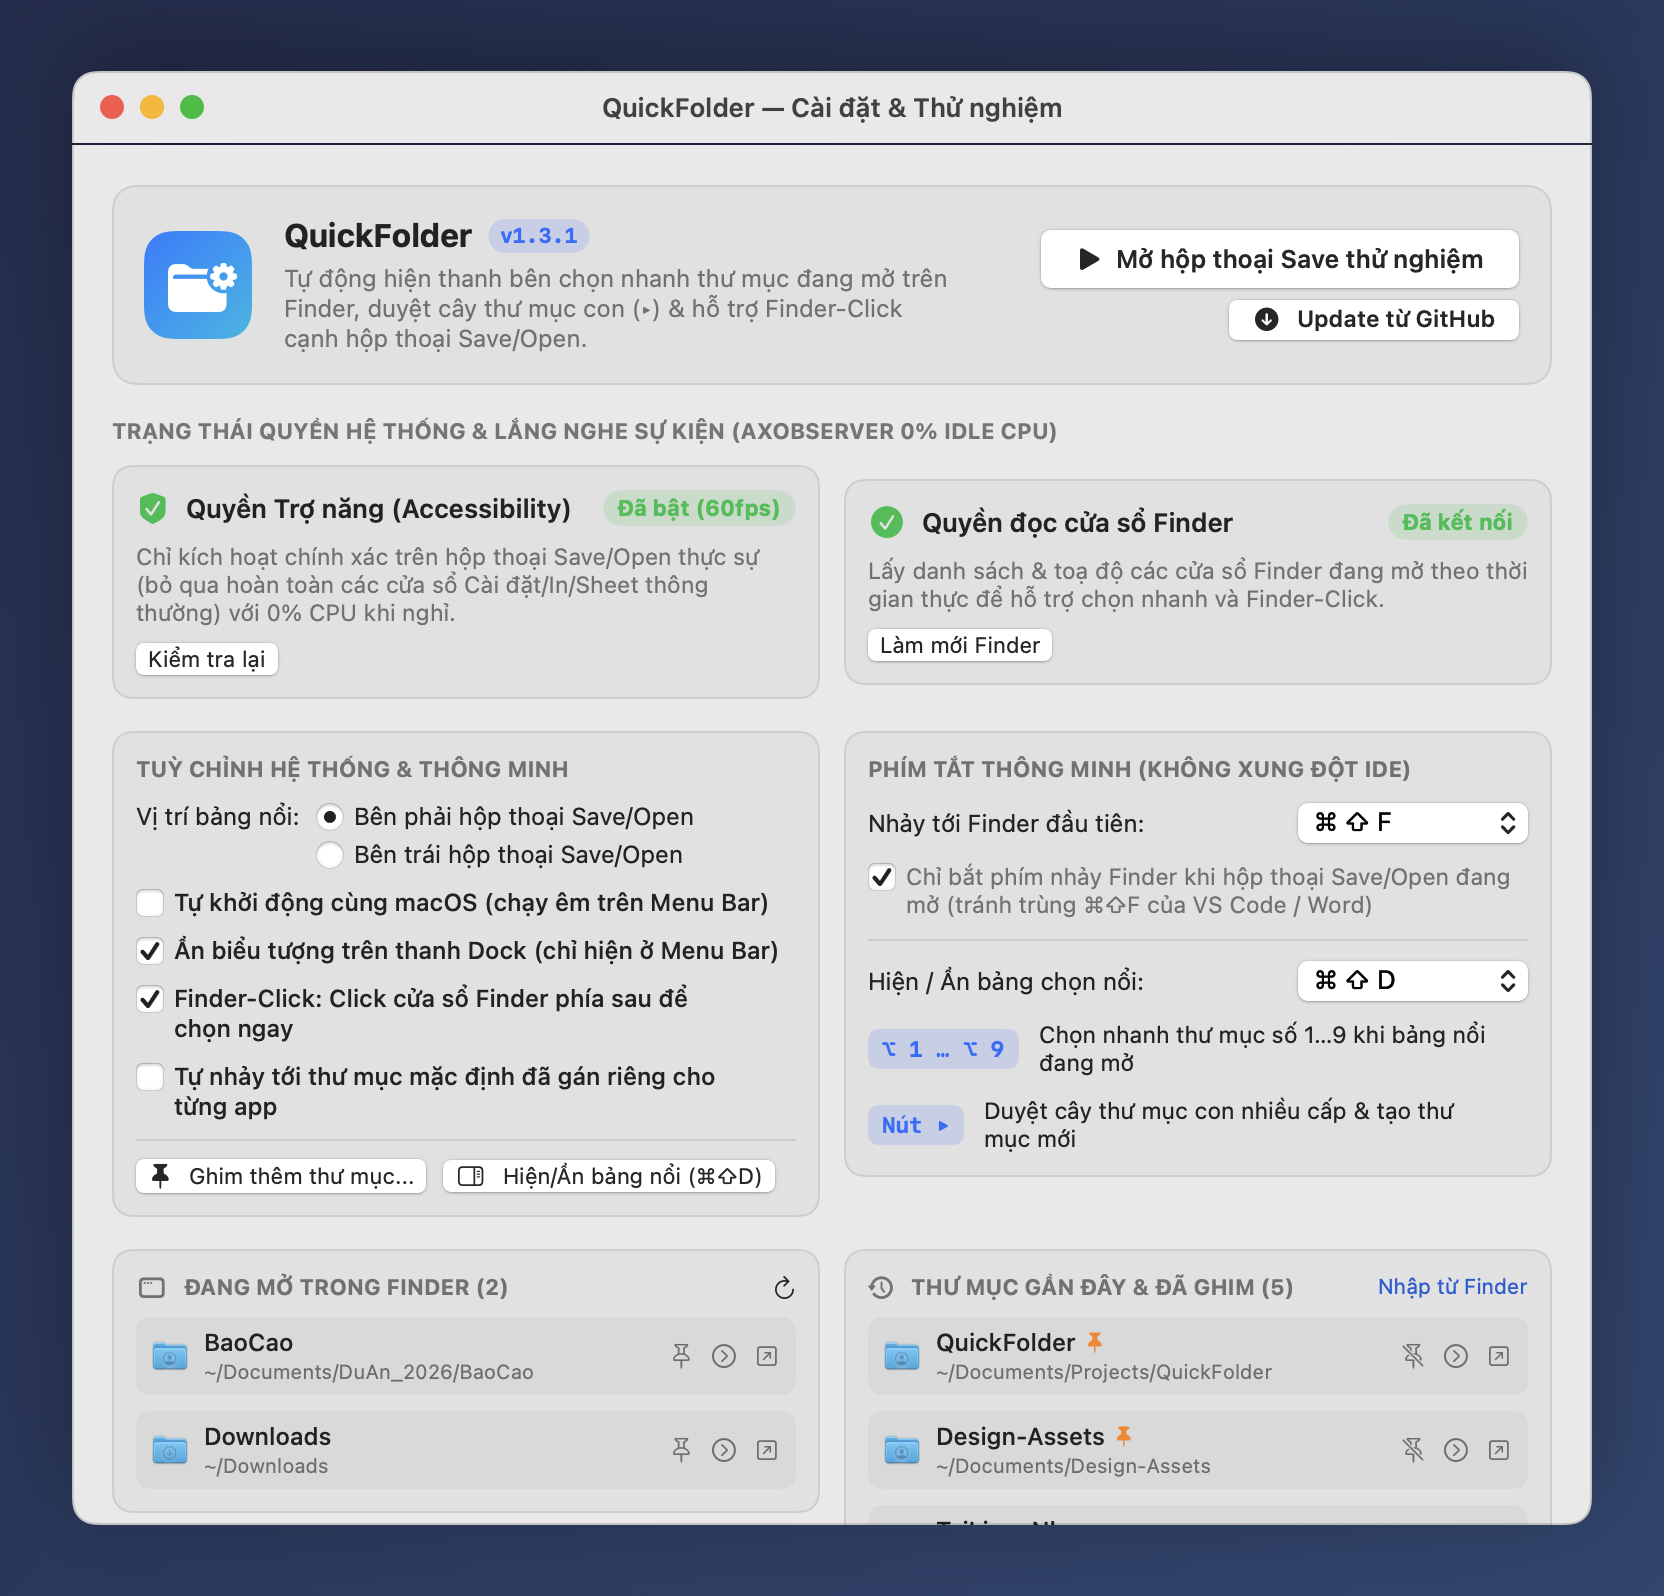
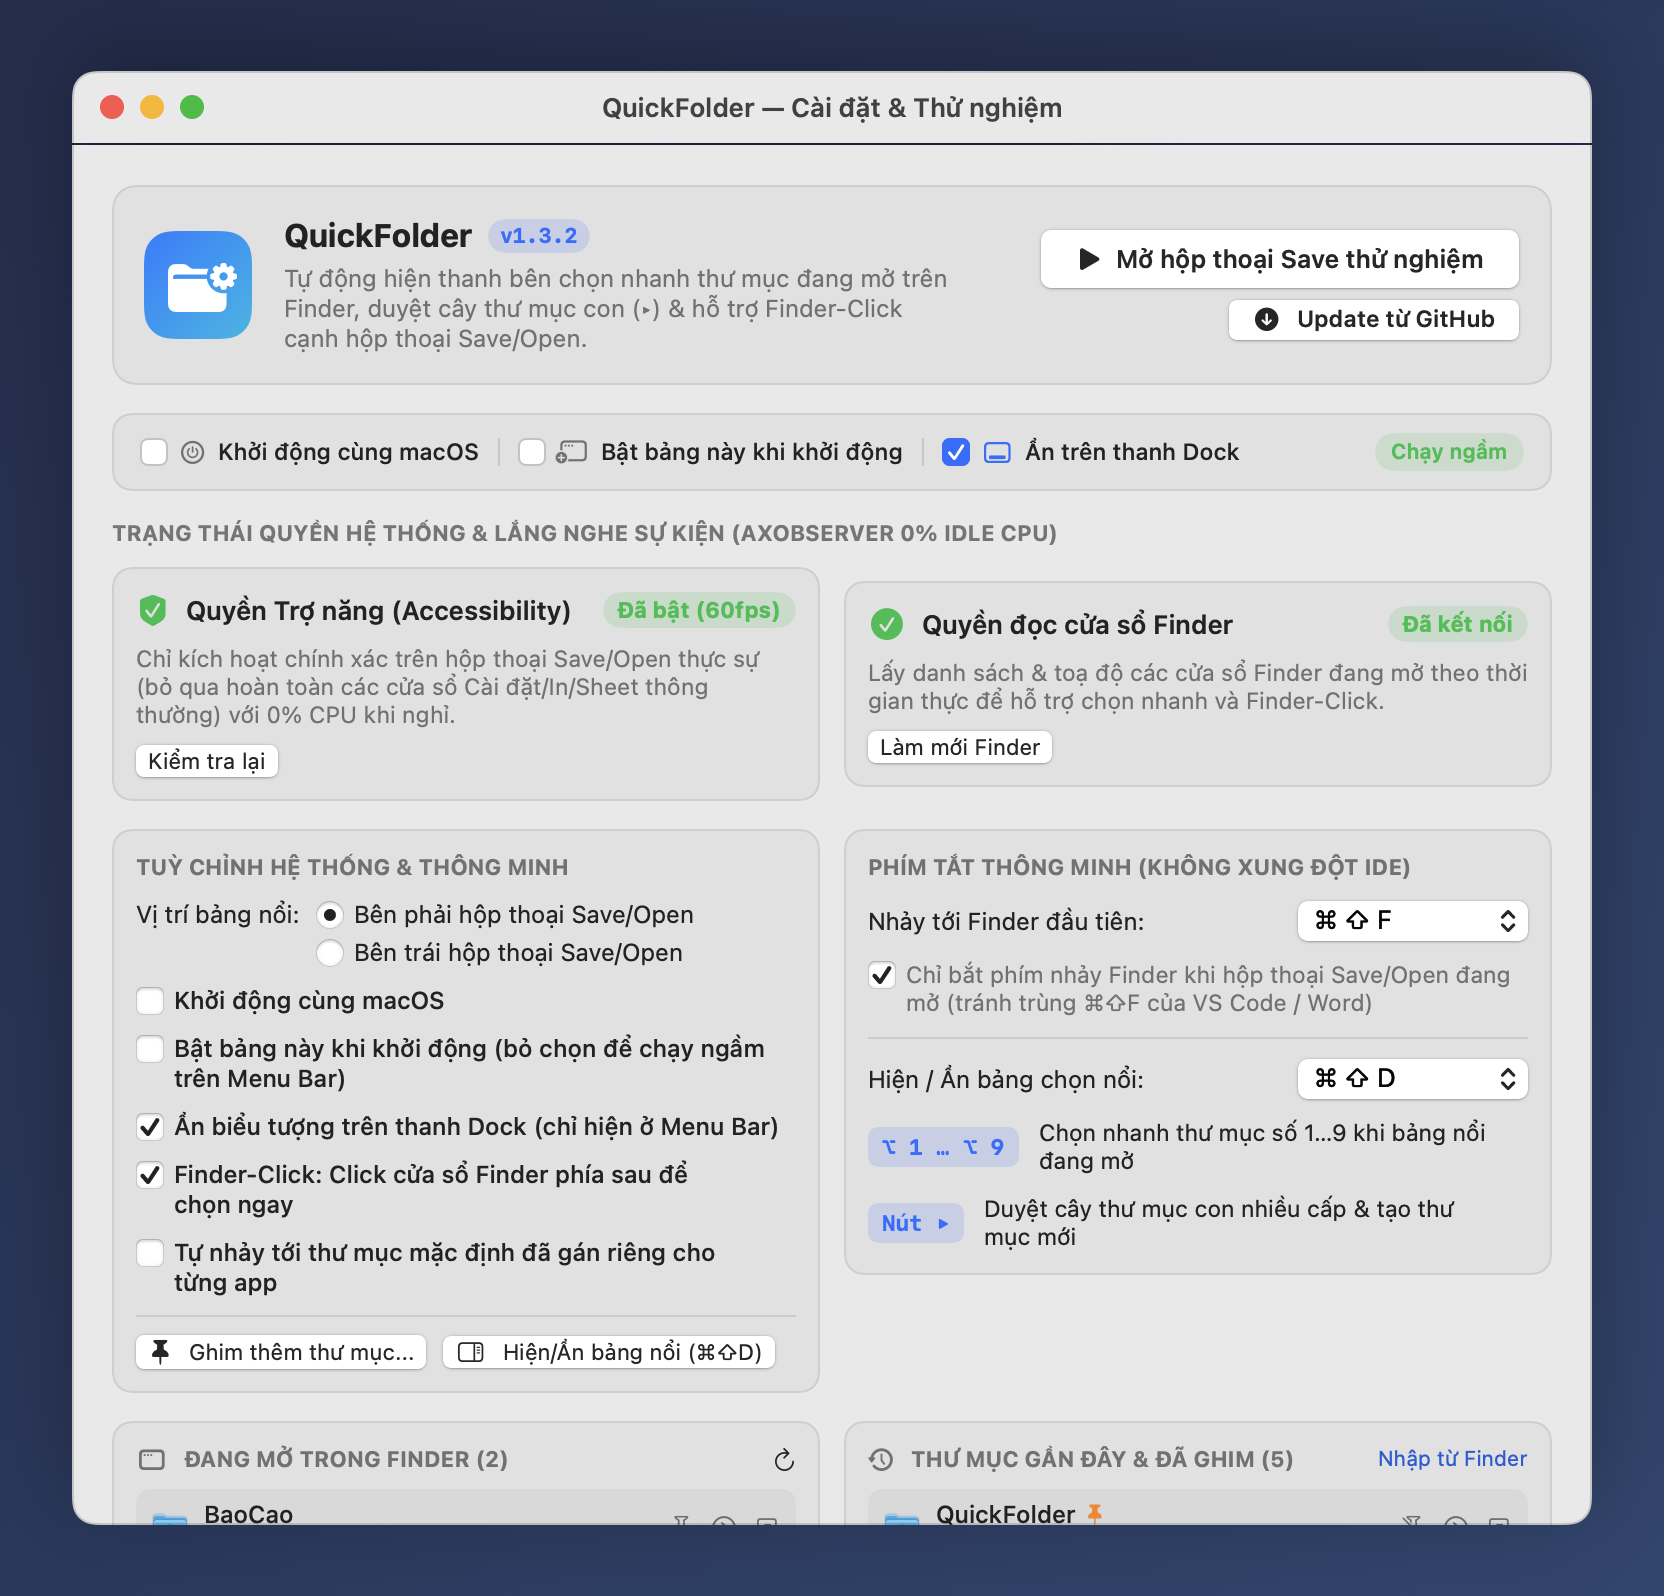
feat(startup): add Launch at Login and Open Dashboard on Startup toggles (v1.3.2)

diff --git a/Sources/QuickFolder/UI/SettingsAndTestView.swift b/Sources/QuickFolder/UI/SettingsAndTestView.swift
@@ -13,8 +13,10 @@ struct SettingsAndTestView: View {
 
     var body: some View {
         ScrollView {
-            VStack(alignment: .leading, spacing: 16) {
+            VStack(alignment: .leading, spacing: 14) {
                 heroBanner
+
+                startupOptionsBar
 
                 permissionsSection
 
@@ -25,6 +27,109 @@ struct SettingsAndTestView: View {
             .padding(20)
         }
         .frame(minWidth: 680, minHeight: 600)
+    }
+
+    // MARK: - Quick Startup Options Bar ("Khởi động cùng macOS" & "Bật bảng này khi khởi động")
+
+    private var startupOptionsBar: some View {
+        HStack(spacing: 9) {
+            startupCheckboxButton(
+                title: "Khởi động cùng macOS",
+                systemImage: "power.circle",
+                isChecked: launchManager.isEnabled
+            ) {
+                launchManager.toggle()
+            }
+            .help("Tự động mở QuickFolder ngay khi bạn đăng nhập vào máy Mac")
+
+            Rectangle()
+                .fill(Color.primary.opacity(0.14))
+                .frame(width: 1, height: 14)
+
+            startupCheckboxButton(
+                title: "Bật bảng này khi khởi động",
+                systemImage: "macwindow.badge.plus",
+                isChecked: launchManager.openDashboardOnStartup
+            ) {
+                launchManager.openDashboardOnStartup.toggle()
+            }
+            .help("Mở sẵn cửa sổ Cài đặt & Thử nghiệm này mỗi khi QuickFolder khởi động (bỏ chọn để chạy ngầm êm trên Menu Bar)")
+
+            Rectangle()
+                .fill(Color.primary.opacity(0.14))
+                .frame(width: 1, height: 14)
+
+            startupCheckboxButton(
+                title: "Ẩn trên thanh Dock",
+                systemImage: "dock.rectangle",
+                isChecked: panelController.hideFromDock
+            ) {
+                panelController.hideFromDock.toggle()
+            }
+            .help("Ẩn biểu tượng QuickFolder khỏi thanh Dock, chỉ giữ trên thanh Menu Bar")
+
+            Spacer(minLength: 4)
+
+            Text(launchManager.openDashboardOnStartup ? "Mở ngay" : "Chạy ngầm")
+                .font(.system(size: 10.5, weight: .semibold))
+                .lineLimit(1)
+                .fixedSize(horizontal: true, vertical: false)
+                .padding(.horizontal, 8)
+                .padding(.vertical, 3)
+                .background(
+                    Capsule()
+                        .fill((launchManager.openDashboardOnStartup ? Color.accentColor : Color.green).opacity(0.14))
+                )
+                .foregroundStyle(launchManager.openDashboardOnStartup ? Color.accentColor : Color.green)
+        }
+        .padding(.horizontal, 14)
+        .padding(.vertical, 10)
+        .background(
+            RoundedRectangle(cornerRadius: 10, style: .continuous)
+                .fill(Color.primary.opacity(0.04))
+        )
+        .overlay(
+            RoundedRectangle(cornerRadius: 10, style: .continuous)
+                .strokeBorder(Color.primary.opacity(0.1), lineWidth: 1)
+        )
+    }
+
+    private func startupCheckboxButton(
+        title: String,
+        systemImage: String,
+        isChecked: Bool,
+        action: @escaping () -> Void
+    ) -> some View {
+        Button(action: action) {
+            HStack(spacing: 5.5) {
+                ZStack {
+                    RoundedRectangle(cornerRadius: 4, style: .continuous)
+                        .fill(isChecked ? Color.accentColor : Color(nsColor: .controlBackgroundColor))
+                        .frame(width: 14, height: 14)
+                        .overlay(
+                            RoundedRectangle(cornerRadius: 4, style: .continuous)
+                                .strokeBorder(isChecked ? Color.accentColor : Color.primary.opacity(0.28), lineWidth: 1)
+                        )
+                    if isChecked {
+                        Image(systemName: "checkmark")
+                            .font(.system(size: 9, weight: .bold))
+                            .foregroundStyle(.white)
+                    }
+                }
+
+                Image(systemName: systemImage)
+                    .font(.system(size: 11.5, weight: .medium))
+                    .foregroundStyle(isChecked ? Color.accentColor : .secondary)
+
+                Text(title)
+                    .font(.system(size: 11.5, weight: .medium))
+                    .foregroundStyle(.primary)
+                    .lineLimit(1)
+                    .fixedSize(horizontal: true, vertical: false)
+            }
+            .contentShape(Rectangle())
+        }
+        .buttonStyle(.plain)
     }
 
     // MARK: - 1. Hero & Built-in Test Save Dialog
@@ -256,7 +361,13 @@ struct SettingsAndTestView: View {
                 .font(.system(size: 12))
 
                 Toggle(isOn: launchAtLoginBinding) {
-                    Text("Tự khởi động cùng macOS (chạy êm trên Menu Bar)")
+                    Text("Khởi động cùng macOS")
+                        .font(.system(size: 12, weight: .medium))
+                }
+                .toggleStyle(.checkbox)
+
+                Toggle(isOn: $launchManager.openDashboardOnStartup) {
+                    Text("Bật bảng này khi khởi động (bỏ chọn để chạy ngầm trên Menu Bar)")
                         .font(.system(size: 12, weight: .medium))
                 }
                 .toggleStyle(.checkbox)

diff --git a/Sources/QuickFolder/Services/LaunchAtLoginManager.swift b/Sources/QuickFolder/Services/LaunchAtLoginManager.swift
@@ -7,48 +7,110 @@ final class LaunchAtLoginManager: ObservableObject {
     static let shared = LaunchAtLoginManager()
 
     @Published private(set) var isEnabled: Bool = false
+    @Published var openDashboardOnStartup: Bool {
+        didSet {
+            UserDefaults.standard.set(openDashboardOnStartup, forKey: openDashboardOnStartupKey)
+        }
+    }
     @Published var lastErrorMessage: String?
 
     private let hasCompletedFirstLaunchKey = "QuickFolder.HasCompletedFirstLaunch.v1"
+    private let openDashboardOnStartupKey = "QuickFolder.OpenDashboardOnStartup.v1"
+    private let launchAgentLabel = "com.hunglx.QuickFolder.launcher"
+
+    private var launchAgentPlistURL: URL {
+        FileManager.default.homeDirectoryForCurrentUser
+            .appendingPathComponent("Library/LaunchAgents/\(launchAgentLabel).plist")
+    }
 
     private init() {
+        if UserDefaults.standard.object(forKey: openDashboardOnStartupKey) == nil {
+            self.openDashboardOnStartup = false
+            UserDefaults.standard.set(false, forKey: openDashboardOnStartupKey)
+        } else {
+            self.openDashboardOnStartup = UserDefaults.standard.bool(forKey: openDashboardOnStartupKey)
+        }
         refreshStatus()
     }
 
     func refreshStatus() {
-        isEnabled = (SMAppService.mainApp.status == .enabled)
+        let smStatus = SMAppService.mainApp.status
+        let hasAgentPlist = FileManager.default.fileExists(atPath: launchAgentPlistURL.path)
+        isEnabled = (smStatus == .enabled || smStatus == .requiresApproval || hasAgentPlist)
     }
 
     func setEnabled(_ enable: Bool) {
         lastErrorMessage = nil
-        do {
-            if enable {
-                try SMAppService.mainApp.register()
-            } else {
-                try SMAppService.mainApp.unregister()
+        if enable {
+            var registeredViaSM = false
+            do {
+                if SMAppService.mainApp.status != .enabled {
+                    try SMAppService.mainApp.register()
+                }
+                let st = SMAppService.mainApp.status
+                if st == .enabled || st == .requiresApproval {
+                    registeredViaSM = true
+                    removeFallbackLaunchAgent()
+                    if st == .requiresApproval {
+                        SMAppService.openSystemSettingsLoginItems()
+                    }
+                }
+            } catch {
+                registeredViaSM = false
             }
-            refreshStatus()
-        } catch {
-            refreshStatus()
-            lastErrorMessage = "Không thể đổi trạng thái khởi động cùng máy (hãy chép QuickFolder.app vào /Applications trước): \(error.localizedDescription)"
+
+            if !registeredViaSM {
+                do {
+                    try writeFallbackLaunchAgent()
+                } catch {
+                    lastErrorMessage = "Không thể bật Khởi động cùng macOS: \(error.localizedDescription)"
+                }
+            }
+        } else {
+            try? SMAppService.mainApp.unregister()
+            removeFallbackLaunchAgent()
         }
+        refreshStatus()
     }
 
     func toggle() {
         setEnabled(!isEnabled)
     }
 
-    /// Returns `true` only on the very first run of the app (or if Accessibility permission is not yet trusted),
-    /// allowing subsequent logins/launches to start silently in the Menu Bar without popping up the dashboard window.
+    /// Returns `true` on the very first run after installation, or whenever the user enables "Bật bảng này khi khởi động".
     func shouldOpenDashboardOnStartup() -> Bool {
         let hasLaunchedBefore = UserDefaults.standard.bool(forKey: hasCompletedFirstLaunchKey)
         if !hasLaunchedBefore {
             UserDefaults.standard.set(true, forKey: hasCompletedFirstLaunchKey)
             return true
         }
-        if !AXIsProcessTrusted() {
-            return true
+        return openDashboardOnStartup
+    }
+
+    // MARK: - Fallback ~/Library/LaunchAgents Plist (ensures reliable Launch at Login on ad-hoc signed builds)
+
+    private func writeFallbackLaunchAgent() throws {
+        let dir = launchAgentPlistURL.deletingLastPathComponent()
+        try FileManager.default.createDirectory(at: dir, withIntermediateDirectories: true)
+
+        let preferredAppPath = FileManager.default.fileExists(atPath: "/Applications/QuickFolder.app")
+            ? "/Applications/QuickFolder.app"
+            : Bundle.main.bundleURL.standardizedFileURL.path
+        let executablePath = "\(preferredAppPath)/Contents/MacOS/QuickFolder"
+
+        let plistDict: [String: Any] = [
+            "Label": launchAgentLabel,
+            "ProgramArguments": [executablePath],
+            "RunAtLoad": true,
+            "ProcessType": "Interactive"
+        ]
+        let data = try PropertyListSerialization.data(fromPropertyList: plistDict, format: .xml, options: 0)
+        try data.write(to: launchAgentPlistURL, options: .atomic)
+    }
+
+    private func removeFallbackLaunchAgent() {
+        if FileManager.default.fileExists(atPath: launchAgentPlistURL.path) {
+            try? FileManager.default.removeItem(at: launchAgentPlistURL)
         }
-        return false
     }
 }

diff --git a/Sources/QuickFolder/QuickFolderApp.swift b/Sources/QuickFolder/QuickFolderApp.swift
@@ -170,13 +170,22 @@ final class AppDelegate: NSObject, NSApplicationDelegate, NSMenuDelegate {
         menu.addItem(.separator())
 
         let launchAtLoginItem = NSMenuItem(
-            title: "Tự khởi động cùng macOS",
+            title: "Khởi động cùng macOS",
             action: #selector(toggleLaunchAtLoginAction),
             keyEquivalent: ""
         )
         launchAtLoginItem.state = LaunchAtLoginManager.shared.isEnabled ? .on : .off
         launchAtLoginItem.target = self
         menu.addItem(launchAtLoginItem)
+
+        let openOnStartupItem = NSMenuItem(
+            title: "Bật bảng điều khiển khi khởi động",
+            action: #selector(toggleOpenDashboardOnStartupAction),
+            keyEquivalent: ""
+        )
+        openOnStartupItem.state = LaunchAtLoginManager.shared.openDashboardOnStartup ? .on : .off
+        openOnStartupItem.target = self
+        menu.addItem(openOnStartupItem)
 
         let hideDockItem = NSMenuItem(
             title: "Ẩn biểu tượng trên thanh Dock",
@@ -258,6 +267,10 @@ final class AppDelegate: NSObject, NSApplicationDelegate, NSMenuDelegate {
 
     @objc private func toggleLaunchAtLoginAction() {
         LaunchAtLoginManager.shared.toggle()
+    }
+
+    @objc private func toggleOpenDashboardOnStartupAction() {
+        LaunchAtLoginManager.shared.openDashboardOnStartup.toggle()
     }
 
     @objc private func toggleHideFromDockAction() {

diff --git a/Sources/QuickFolder/Services/SavePanelDetector.swift b/Sources/QuickFolder/Services/SavePanelDetector.swift
@@ -97,9 +97,9 @@ final class SavePanelDetector: ObservableObject {
             }
         }
 
-        // Low-frequency fallback safety check (1.2s instead of 0.3s) since AXObserver handles instant events
+        // Low-frequency fallback safety check (2.5s) since AXObserver + NSWorkspace handle instant events
         timer?.invalidate()
-        timer = Timer.scheduledTimer(withTimeInterval: 1.2, repeats: true) { [weak self] _ in
+        timer = Timer.scheduledTimer(withTimeInterval: 2.5, repeats: true) { [weak self] _ in
             Task { @MainActor in
                 guard let self = self else { return }
                 let frontBundle = NSWorkspace.shared.frontmostApplication?.bundleIdentifier

diff --git a/Sources/QuickFolder/Services/UpdateChecker.swift b/Sources/QuickFolder/Services/UpdateChecker.swift
@@ -25,7 +25,7 @@ final class UpdateChecker: ObservableObject {
     private var progressBar: NSProgressIndicator?
 
     var currentVersion: String {
-        (Bundle.main.infoDictionary?["CFBundleShortVersionString"] as? String) ?? "1.3.1"
+        (Bundle.main.infoDictionary?["CFBundleShortVersionString"] as? String) ?? "1.3.2"
     }
 
     private init() {}

diff --git a/README.md b/README.md
@@ -12,8 +12,9 @@
   <img src="docs/images/settings-dashboard.png" alt="Bảng điều khiển Cài đặt & Thử nghiệm QuickFolder" width="760" />
 </p>
 
-## ✨ Tính năng nổi bật (v1.3.1)
+## ✨ Tính năng nổi bật (v1.3.2)
 
+- **Tuỳ chọn “Khởi động cùng macOS” & “Bật bảng này khi khởi động”**: Tích hợp thanh tuỳ chọn nhanh ngay đầu cửa sổ điều khiển và trên Menu Bar để bạn chủ động chọn tự chạy cùng macOS, mở sẵn bảng điều khiển khi khởi động hoặc chạy ngầm hoàn toàn trên thanh Menu Bar.
 - **Nút “Update từ GitHub” 1 chạm ở mọi nơi (Bảng nổi, Cửa sổ Cài đặt & Menu Bar)**: Tích hợp nút **Update từ GitHub** trực tiếp trên thanh bên nổi cạnh hộp thoại Save/Open, trong cửa sổ Cài đặt và trên Menu Bar (`⌘U`) — tự động kiểm tra tag mới nhất trên `hungmtuci/QuickFolder`, tải gói cập nhật kèm thanh tiến trình, thay thế `/Applications/QuickFolder.app`, gỡ cờ cách ly Gatekeeper và khởi động lại ngay lập tức (hỗ trợ cả tải & cài lại bản sạch khi đang ở phiên bản mới nhất).
 - **Thanh bên nổi tự động & Bám theo thời gian thực (`AXObserver` 60fps, ~0% CPU khi nghỉ)**: Tự động xuất hiện bám sát cạnh phải hoặc cạnh trái của hộp thoại `Save` / `Open` qua sự kiện `AXObserver` mà không tốn CPU chạy ngầm khi nghỉ.
 - **Finder-Click (Click trực tiếp cửa sổ Finder nằm phía sau)**: Khi hộp thoại Save/Open đang mở, chỉ cần di chuột ra vùng cửa sổ Finder bất kỳ trên màn hình và click 1 lần để nhảy hộp thoại Save tới thẳng thư mục đó.
@@ -36,8 +37,8 @@
 ## 📥 Tải về & Cài đặt nhanh (macOS 14.0+ Universal: Apple Silicon & Intel)
 
 1. Tải bộ cài mới nhất tại trang **[Releases](https://github.com/hungmtuci/QuickFolder/releases/latest)**:
-   - **`QuickFolder-Installer-v1.3.1.dmg`** *(Khuyên dùng)*
-   - Hoặc **`QuickFolder-v1.3.1-macOS.zip`**
+   - **`QuickFolder-Installer-v1.3.2.dmg`** *(Khuyên dùng)*
+   - Hoặc **`QuickFolder-v1.3.2-macOS.zip`**
 2. Mở file `.dmg`:
    - Kéo `QuickFolder.app` thả vào thư mục **`Applications`**, **HOẶC** nhấp chuột phải vào `Cai_Dat_QuickFolder.command` -> chọn **Open** để tự động cài đặt và gỡ cờ cách ly Gatekeeper.
 3. Nếu macOS báo ứng dụng chưa công chứng Apple Developer ID khi mở lần đầu trên máy mới, chạy lệnh sau trong Terminal:
